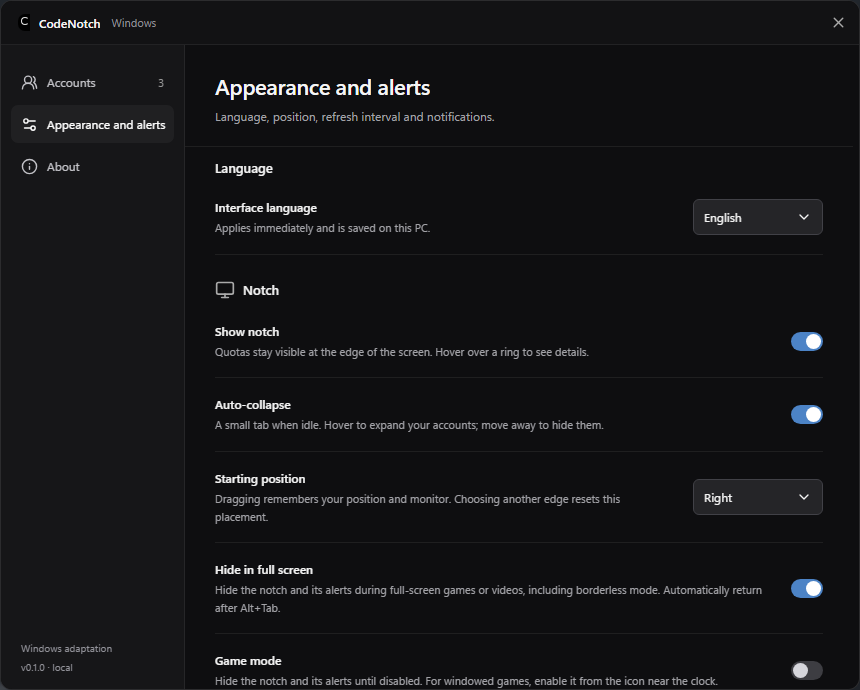
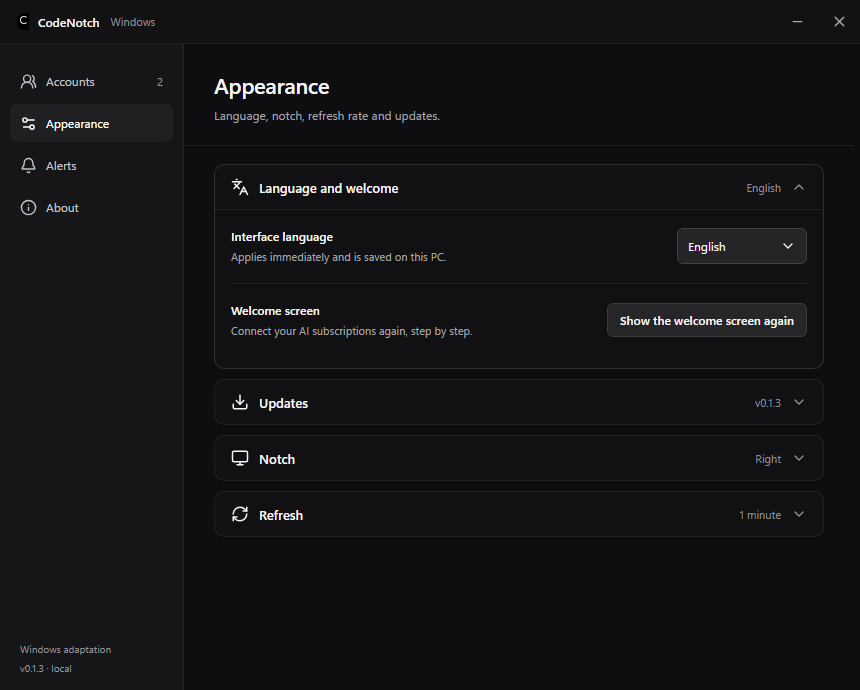
Refresh README screenshots for 0.1.3
New sample-data captures of the welcome screen, quick connect, alerts and
appearance settings, generated by scripts/capture-preview.ts.

diff --git a/scripts/capture-preview.ts b/scripts/capture-preview.ts
@@ -18,8 +18,56 @@ try {
   const right = Math.min(1100, Math.ceil(Math.max(...boxes.map(box => box!.x + box!.width)) + 18));
   const bottom = Math.min(850, Math.ceil(Math.max(...boxes.map(box => box!.y + box!.height)) + 18));
   await page.screenshot({ path: 'docs/images/notch.png', clip: { x: left, y: top, width: right-left, height: bottom-top } });
-  await page.locator('.preview-caption button').click();
-  await page.getByRole('button', { name: 'Appearance', exact: true }).click();
-  await page.locator('.settings-window').screenshot({ path: 'docs/images/settings.png' });
+
+  // Settings screens use a mocked native bridge with fictional accounts and paths.
+  const native = await browser.newPage({ viewport: { width: 860, height: 690 }, reducedMotion: 'reduce' });
+  await native.addInitScript(() => {
+    const host = window as any;
+    const settings = {
+      language: 'en', pollSeconds: 60, notifications: true, alertPercent: 80, widget: true, autoHide: true,
+      hideInFullscreen: true, gameMode: false, widgetPlacement: null, widgetPosition: 'right', onboardingDone: false,
+      criticalPercent: 95, forecastAlerts: true, forecastMinutes: 30, resetAlerts: true, criticalInFullscreen: true,
+      telegramEnabled: false, telegramChatId: '', discordEnabled: true,
+    };
+    const account = (id: string, provider: string, name: string) => ({
+      id, provider, name, enabled: true, profilePath: '', endpoint: '', secretEnv: '', hasSecret: false,
+    });
+    const snapshot = {
+      config: { settings, accounts: [account('codex', 'codex', 'Codex · personal'), account('claude', 'claude', 'Claude · personal')] },
+      readings: [], refreshing: false, storageError: null, telegramTokenSaved: false, discordWebhookSaved: true,
+    };
+    const statuses = [
+      { provider: 'codex', installed: true, cliPath: 'C:\\Users\\you\\AppData\\Local\\Programs\\OpenAI\\Codex\\bin\\codex.exe', signedIn: true, signedInAt: 1, profilePath: 'C:\\Users\\you\\.codex' },
+      { provider: 'claude', installed: true, cliPath: 'C:\\Users\\you\\.local\\bin\\claude.exe', signedIn: true, signedInAt: 1, profilePath: 'C:\\Users\\you\\.claude' },
+      { provider: 'gemini', installed: false, cliPath: null, signedIn: false, signedInAt: null, profilePath: 'C:\\Users\\you\\.gemini' },
+      { provider: 'grok', installed: true, cliPath: 'C:\\Users\\you\\.grok\\bin\\grok.exe', signedIn: false, signedInAt: null, profilePath: 'C:\\Users\\you\\.grok' },
+      { provider: 'opencode', installed: false, cliPath: null, signedIn: false, signedInAt: null, profilePath: 'C:\\Users\\you\\.local\\share\\opencode' },
+    ];
+    host.isTauri = true;
+    host.__TAURI_EVENT_PLUGIN_INTERNALS__ = { unregisterListener: () => {} };
+    host.__TAURI_INTERNALS__ = {
+      transformCallback: () => 1, unregisterCallback: () => {},
+      invoke: async (command: string, args: any) => {
+        if (command === 'get_snapshot') return snapshot;
+        if (command === 'provider_status') return args?.provider ? statuses.filter(s => s.provider === args.provider) : statuses;
+        if (command === 'plugin:app|version') return '0.1.3';
+        if (command === 'save_settings') { snapshot.config.settings = args.settings; return structuredClone(snapshot); }
+        return null;
+      },
+    };
+  });
+  await native.goto('http://127.0.0.1:1437/');
+  await expect(native.getByRole('heading', { name: 'Connect your AI subscriptions' })).toBeVisible();
+  await expect(native.getByText('Signed in · tracked in the notch').first()).toBeVisible();
+  await native.locator('.settings-window').screenshot({ path: 'docs/images/welcome.png' });
+  await native.getByRole('button', { name: 'Later', exact: true }).click();
+  await expect(native.getByRole('heading', { name: 'Accounts', exact: true })).toBeVisible();
+  await native.locator('.settings-window').screenshot({ path: 'docs/images/accounts.png' });
+  await native.getByRole('button', { name: 'Alerts', exact: true }).click();
+  await expect(native.locator('.accordion-trigger', { hasText: 'Discord' })).toContainText('Active');
+  await native.locator('.settings-window').screenshot({ path: 'docs/images/alerts.png' });
+  await native.getByRole('button', { name: 'Appearance', exact: true }).click();
+  await expect(native.getByText('Language and welcome')).toBeVisible();
+  await native.locator('.settings-window').screenshot({ path: 'docs/images/settings.png' });
   console.log('Saved demo-only README screenshots.');
 } finally { await browser.close(); }

diff --git a/README.md b/README.md
@@ -61,6 +61,8 @@ Get-FileHash .\CodeNotch-0.1.3-windows-x64.zip -Algorithm SHA256
 
 ## Connect your accounts
 
+![Welcome screen with sample accounts](docs/images/welcome.png)
+
 On first launch, CodeNotch opens a welcome screen to connect your subscriptions
 (you can show it again from **Appearance**). Afterwards, open
 **Settings → Accounts → Quick connect** and click **Sign in** next to
@@ -77,6 +79,8 @@ Codex / ChatGPT, Claude, Gemini, Grok or OpenCode, then finish in your browser:
 CodeNotch then detects the new session and adds the account. Each row shows
 which CLI was found, or the command that installs it. CodeNotch never sees the
 authorization code or the token exchange.
+
+![Quick connect in Accounts, with sample data](docs/images/accounts.png)
 
 | Provider | Connection | Available readings |
 | --- | --- | --- |
@@ -107,7 +111,9 @@ This app does not provide native connectors for every AI service.
 
 ## Settings
 
-![English settings](docs/images/settings.png)
+![Appearance settings](docs/images/settings.png)
+
+Settings are grouped into collapsible sections (one open at a time, remembered).
 
 - **Appearance → Interface language** switches English / Français.
 - Drag the grip to save position and monitor. Choosing another edge resets placement.
@@ -128,6 +134,8 @@ Refresh intervals are 30, 60, 120 or 300 seconds. Claude enforces a minimum of
 Readings stay in memory for the session; any history comes from the provider.
 
 ## Alerts (for agents running in the background)
+
+![Alerts with Discord set up](docs/images/alerts.png)
 
 - **Graded alerts**: warning threshold (80 % by default), critical threshold
   (95 %), and limit reached. Each level fires once per window and period; jumping

diff --git a/docs/README.fr.md b/docs/README.fr.md
@@ -44,6 +44,10 @@ figurent dans `SHA256SUMS.txt`.
 - Réglages séparés, formulaires en modale et notifications de seuil optionnelles.
 - Anglais par défaut, français disponible et choix enregistré.
 
+Au premier lancement, un écran d’accueil s’ouvre pour connecter vos abonnements.
+
+![Écran d’accueil avec données fictives](images/welcome.png)
+
 Dans **Réglages → Comptes → Connexion rapide**, cliquez sur **Se connecter**
 à côté de Codex / ChatGPT, Claude, Gemini, Grok ou OpenCode, puis terminez dans le navigateur.
 Codex se connecte sans terminal : CodeNotch obtient la page OAuth ChatGPT
